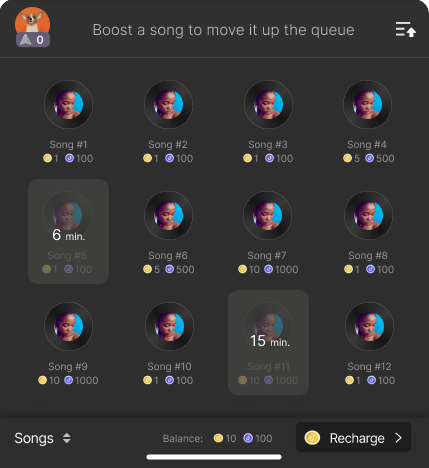
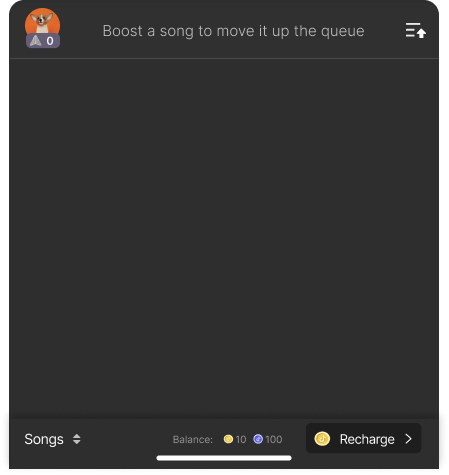
updated boosts files

diff --git a/src/components/BoostingModal.svelte b/src/components/BoostingModal.svelte
@@ -1,5 +1,30 @@
 <script>
-	import SongButton from './SongButton.svelte';
+	import UpNext from './UpNext.svelte';
+    export let playlist;
+
+	/////////  Song Numbering  ////////////
+	// let counter = 0;
+	// let increment = () =>{
+	// 	counter++
+	// 	console.log(counter)
+	// 	return counter;
+	// }
+
+	// button click handler 
+	let visible = {};
+	for (let elem of playlist) {
+		visible[elem[0]] = false;
+	}; 
+
+	//boosting alg
+	async function boosted(song){
+		for (let elem of playlist) {
+			if (elem[0] == song) {
+				elem[3] += 1;
+			}
+		} 
+  	};
+
 
 	
 </script>
@@ -7,43 +32,61 @@
 <main>
 	<img class = "pop-up" src = "Boosts.png" alt = "pop-up screen" />
 
-	<table class="icon-buttons">
-		{#each Array(2) as row}
-			<tr>
-				{#each Array(3) as column}
+	<div class="icon-buttons">
+		{#each playlist as song}
+			{#if visible[song[0]] === true}
+				<label>
+					<input class="to-boost" type="image" src="boost_ clicked.png" alt="song icon" on:click={() => boosted(song[0])}>
+				</label>
 
-					<SongButton></SongButton>
-
-				{/each}
-			</tr>
+					{:else}
+				 	<label>
+						<input type="image" src="song-icon.png" class= "song-icon" alt="song-icon" on:click={() => (visible[song[0]] = true)}/>
+				 	</label>
+			{/if}
+			
 		{/each}
-	</table>
-	  
+	</div>
+
 	
 </main>
 
 <style>
-	tr{
-		height: 40px;
-	}
+	
 	.pop-up{
-		width: 301px;
-		position: absolute;
-		top: 75%;
-        left: 25.3%;
-        transform: translate(-50%, -50%);
-        -ms-transform: translate(-50%, -50%);
-		border-radius: 12px;
+		width: 313.5px;
+        transform: translate(-98%, 81%);
+		border-radius: 25px;
 	}
 
+
 	.icon-buttons{
-		width: 301px;
-		position: absolute;
-		top: 68%;
-        left: 30%;
-        transform: translate(-50%, -50%);
-        -ms-transform: translate(-50%, -50%);
+		width: 300px;
+		height: 250px;
+        transform: translate( -100%, -10%);
 	}
+
+	.song-icon{
+		scale: 0.7;
+		/* padding: 1px; */
+	}
+
+	.to-boost{
+		scale: 0.7;
+	}
+
+	/* .song-num{
+		font-size: 10px;
+        color: #D9D9D9;
+        font-family: "Inter", sans-serif;
+        font-optical-sizing: auto;
+        font-weight: 400;
+        font-style: normal;
+        font-variation-settings: "slnt" 0;
+		width: 10px;
+		transform: translate( 10%, 20%);
+
+	} */
 
 
 	

diff --git a/src/components/Boosting.svelte b/src/components/Boosting.svelte
@@ -1,5 +1,6 @@
 <script>
     import Modal from './BoostingModal.svelte';
+    export let playlist;
 
     let showModal = false;
     
@@ -7,13 +8,15 @@
   
 <main>
     <div class = "phone-container">
-        <img class = "listening-screen" src = "Listening Party - resized.png" alt="phone screen"/>
+        <img class = "listening-screen" src = "o_streamer_show_song.png" alt="phone screen"/>
 
         {#if showModal === true}
-             <Modal></Modal>
+             <Modal {playlist}></Modal>
              {:else}
-             <button class="boost-btn" on:click={() => (showModal = true)}> </button>
+             <!-- <button class="boost-btn" on:click={() => (showModal = true)}> </button> -->
+             <input type="image" src="waveform icon.png" class="boost-btn" alt="request icon" on:click={() => (showModal = true)}/>
         {/if}
+        
 
     </div>
 
@@ -35,28 +38,10 @@
     }
 
     .phone-container .boost-btn {
-        position: absolute;
-        top: 91.5%;
-        left: 28.5%;
-        transform: translate(-50%, -50%);
-        -ms-transform: translate(-50%, -50%);
-        background-color: transparent;
-        color: transparent;
-        border: none;
+        transform: translate(-390%, 1070%);
         cursor: pointer;
         height: 25px;
-        width: 20px;
-        border-radius: 10px;
-    }
-
-    .phone-container .boost-btn:hover {
-        background-color: #ffffff28;
-        color: white;
-    }
-
-    .phone-container .boost-btn {
-        background-color: transparent;
-        color: white;
+        width: 25px;
     }
 </style>
 

diff --git a/src/components/App.svelte b/src/components/App.svelte
@@ -21,9 +21,9 @@
   ];  
 
   // Temporary functions for buttons
-  async function boosted(){
-    playlist[Math.floor(Math.random() * 6)][3] += 1;
-  };
+  // async function boosted(){
+  //   playlist[Math.floor(Math.random() * 6)][3] += 1;
+  // };
 
   async function reset(){
     for(let i=0; i < playlist.length; i++){
@@ -93,13 +93,13 @@
     <div class="boost-playlist">
       
       <div class = "boost-listening">
-        <Boosting /> 
+        <Boosting {playlist} /> 
       </div>
 
       <Playlist {playlist} {cooldowns} {song}/>  
 
       <div class="button-wrapper">
-        <button on:click={boosted} style="margin-right: 10px">Boost Random Song</button>
+        <!-- <button on:click={boosted} style="margin-right: 10px">Boost Random Song</button> -->
         <button on:click={reset}>Reset</button>
       </div>
     </div>
